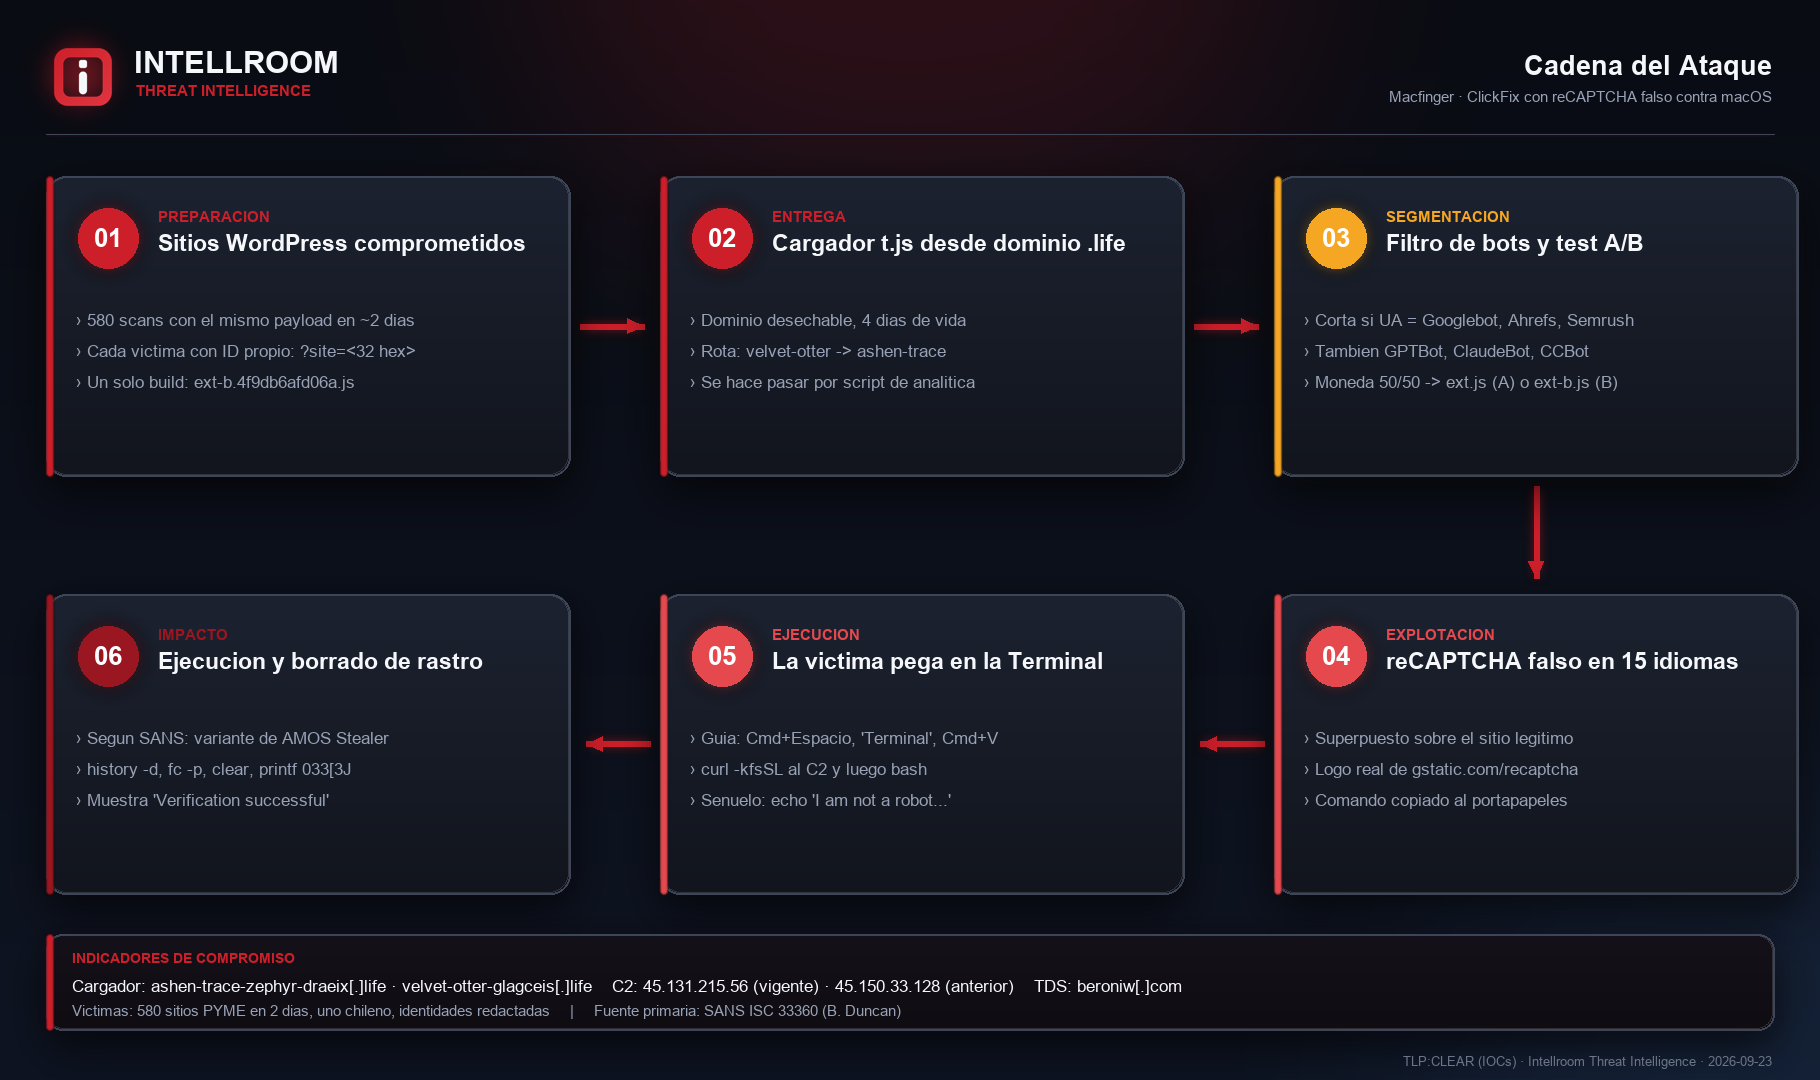
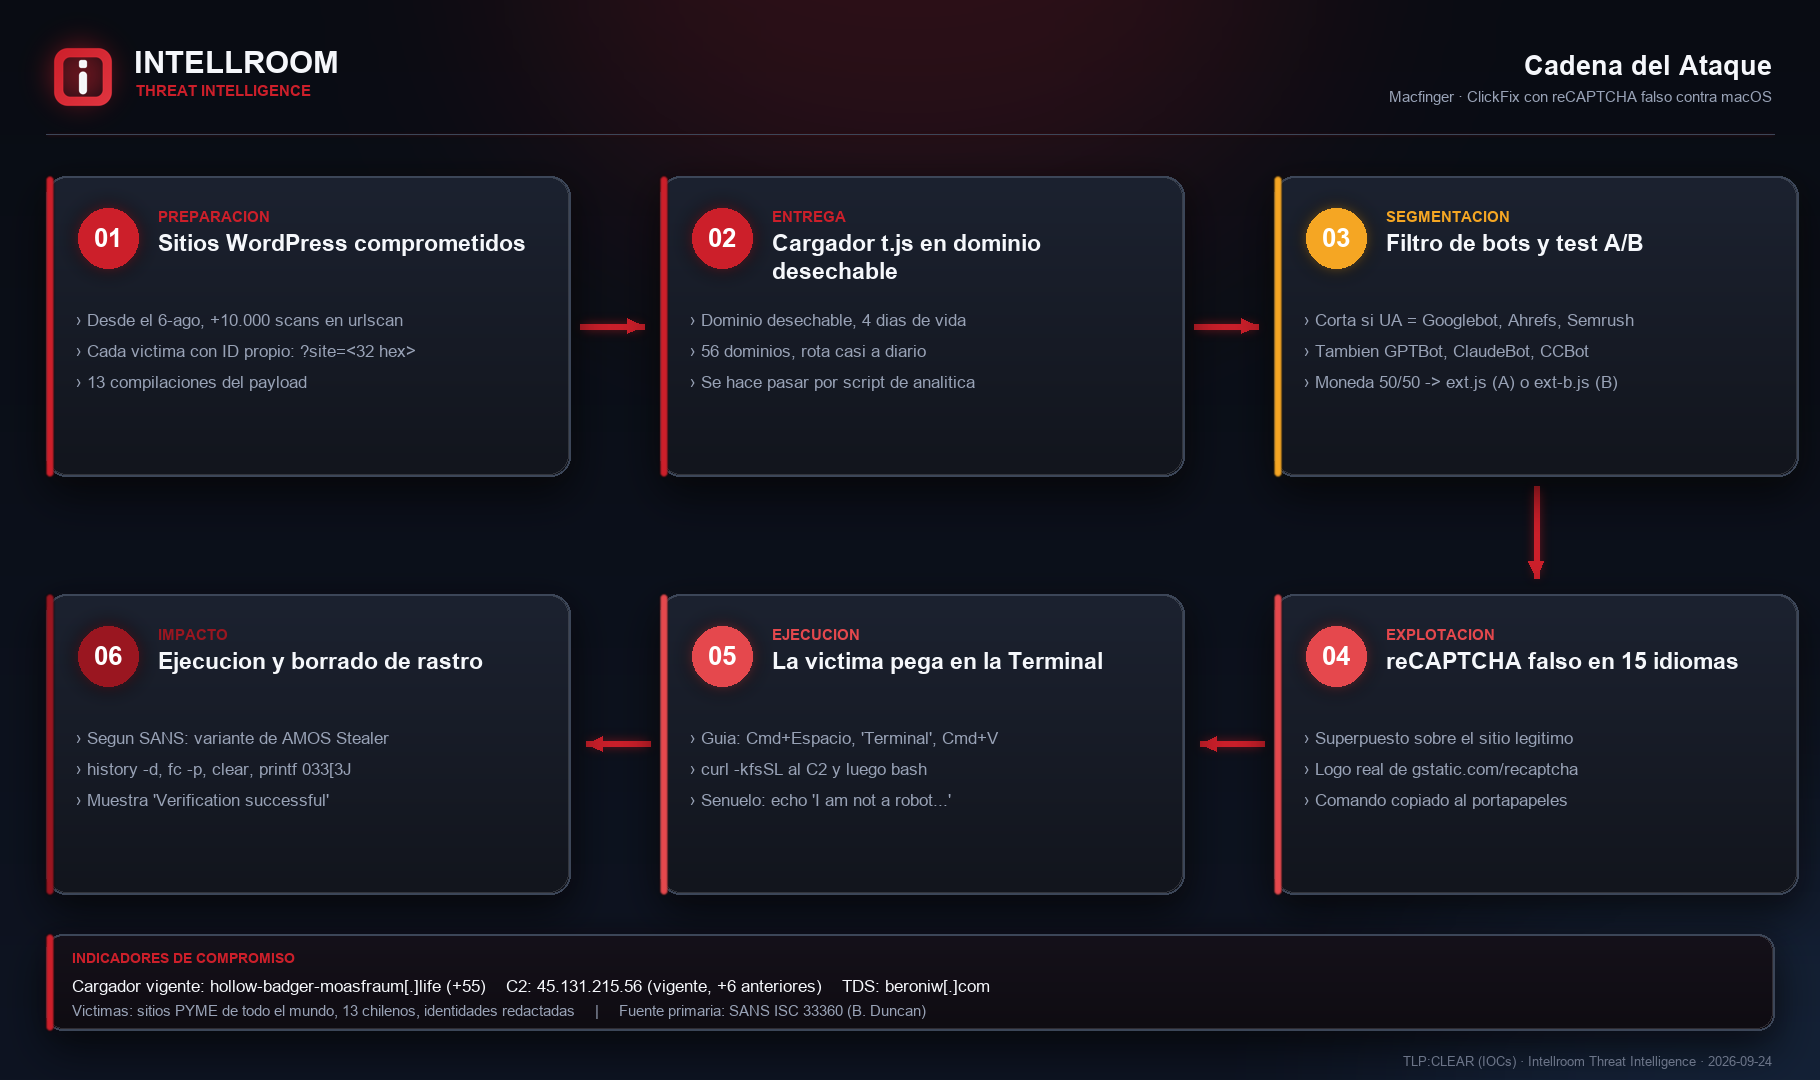
Macfinger_ClickFix_macOS: histórico completo de la campaña al 24-09
Con la telemetría del kit (t.4b1009ff6c3f.js) como pivote, la campaña
opera al menos desde el 6-ago: 13 compilaciones, 7 servidores de
descarga y 56 dominios de cargador. Cada compilación se bajó de urlscan
sin tocar la infraestructura del atacante y se aceptó solo si su SHA-256
empieza con los 12 hex del nombre.

Corrige la ficha: la infraestructura cabe en dos proveedores (Aeza,
AS210644 y AS216246; NetCrafters, AS203273), no en dos ASN. La variante
A ya está analizada: usa el mismo C2 que la B en cada fase.

iocs.txt pasa a 92 indicadores, en el mismo orden. Las víctimas siguen
sin nombrarse.

diff --git a/Campaign/Macfinger_ClickFix_macOS/README.md b/Campaign/Macfinger_ClickFix_macOS/README.md
@@ -1,19 +1,19 @@
 # Macfinger: ClickFix con reCAPTCHA falso contra macOS
 
 **Técnica:** ClickFix, MITRE ATT&CK T1204.004 · **Objetivo:** usuarios de macOS · **Payload final:** variante de Atomic macOS Stealer (AMOS), según SANS · **TLP:CLEAR**
-**Fuente primaria:** [SANS ISC, diario 33360](https://isc.sans.edu/diary/Macfinger+ClickFix+campaign/33360) (Brad Duncan, 22-09-2026) · **Contrastado y ampliado por Intellroom:** 23-09-2026
+**Fuente primaria:** [SANS ISC, diario 33360](https://isc.sans.edu/diary/Macfinger+ClickFix+campaign/33360) (Brad Duncan, 22-09-2026) · **Contrastado y ampliado por Intellroom:** 23-09-2026 · **actualizado:** 24-09-2026
 
 Una campaña masiva inyecta un cargador JavaScript en sitios WordPress de PYMEs de todo el mundo. El cargador muestra un **reCAPTCHA falso** sobre el sitio legítimo y convence al visitante de abrir la Terminal de macOS y pegar un comando que el propio kit copió al portapapeles. El comando descarga y ejecuta un script, **borra el historial y limpia la pantalla**, y termina mostrando en verde *"Verification successful"*.
 
-Brad Duncan la nombró **Macfinger** en SANS ISC. Intellroom llegó a ella de forma independiente, pivoteando desde un **sitio chileno comprometido** (hay al menos seis), y la vinculó a la de SANS con un dato verificable: la URL del servidor de descarga dentro de la compilación vieja del payload es **idéntica** a una de las que publicó SANS.
+Brad Duncan la nombró **Macfinger** en SANS ISC. Intellroom llegó a ella de forma independiente, pivoteando desde un **sitio chileno comprometido** (hay 13 `.cl` con indicadores de la campaña), y la vinculó a la de SANS con un dato verificable: la URL del servidor de descarga dentro de la compilación vieja del payload es **idéntica** a una de las que publicó SANS.
 
 ## Lo que esta ficha agrega a lo ya publicado
 
-- **El cargador rotó dos veces.** `velvet-otter-glagceis[.]life`, el único dominio que publicó SANS, fue reemplazado por **`ashen-trace-zephyr-draeix[.]life`** y horas después por **`misty-whirl-beacon-doa[.]life`**, que no aparecía en ningún reporte y **cayó en el ASN que esta ficha anticipa**. El identificador de la víctima no cambió.
-- **Un servidor de descarga nuevo:** **`45[.]131[.]215[.]56`**, en la compilación vigente del payload.
-- **Toda la infraestructura cabe en dos ASN**, la de SANS y la propia: **AS210644 Aeza Group**, sancionado por OFAC el 1-7-2025, y **AS203273 NetCrafters OU**. Entre una compilación y otra el servidor de descarga **migró de Aeza a NetCrafters**.
-- **El nombre del archivo es un pivote exacto:** los 12 hexadecimales de `ext-b.4f9db6afd06a.js` son el **prefijo de su SHA-256**, verificado en las dos compilaciones. El propio servidor lo confirma con un 404: *"Extended script B version mismatch"*.
-- **Test A/B:** `ext-b` significa *Extended script B*. El kit tira una moneda 50/50 entre dos payloads y mide la conversión.
+- **La campaña empezó al menos el 6 de agosto,** no en septiembre: 13 compilaciones del payload, **7 servidores de descarga** (uno por fase) y **56 dominios de cargador** en nueve terminaciones (`.life`, `.live`, `.xyz`, `.com`, `.icu`, `.space`, `.site`, `.lol`, `.digital`). SANS publicó un dominio y un servidor.
+- **El cargador rota casi a diario.** El 24-09 pasó a **`hollow-badger-moasfraum[.]life`** y conviven otros dos nuevos. El identificador de cada víctima no cambia entre rotaciones.
+- **Toda la infraestructura cabe en dos proveedores:** **Aeza Group** (AS210644 y AS216246), sancionado por OFAC el 1-7-2025, y **NetCrafters OU** (AS203273). Los 7 servidores de descarga y los 51 cargadores que aún resuelven caen ahí, sin excepción. El pivote que dura es el proveedor.
+- **El nombre del archivo es un pivote exacto:** los 12 hexadecimales de `ext-b.4f9db6afd06a.js` son el **prefijo de su SHA-256**, verificado en las **13 compilaciones**. El propio servidor lo confirma con un 404: *"Extended script B version mismatch"*.
+- **Test A/B:** `ext-b` significa *Extended script B*. El kit tira una moneda 50/50 entre dos payloads y mide la conversión. En cada fase, **las dos variantes usan el mismo servidor de descarga**.
 - **Evade rastreadores de IA y de SEO,** no solo a Google: GPTBot, ClaudeBot, CCBot, AhrefsBot, SemrushBot. Buscarlo en Google no devuelve nada, y eso **no** prueba que un sitio esté limpio.
 - **Un segundo inyector** independiente, con redirector propio (`beroniw[.]com`) que hace *cloaking*.
 - **urlscan.io puntúa estos scans con score 0 y `malicious: false`.** Un triage que filtre por el veredicto automático deja pasar la campaña entera.
@@ -23,12 +23,12 @@ Brad Duncan la nombró **Macfinger** en SANS ISC. Intellroom llegó a ella de fo
 | Tipo | Valor | Acción |
 |---|---|---|
 | IP (C2 vigente) | `45[.]131[.]215[.]56` · AS203273 | Bloquear, **revisar a los 60 días** |
-| IP (C2 anterior) | `45[.]150[.]33[.]128` · AS210644 Aeza | Bloquear, **revisar a los 60 días** |
+| IP (6 C2 anteriores) | Ver `iocs.txt`, todas en Aeza o NetCrafters | Bloquear, **revisar a los 60 días** |
 | IP | `95[.]163[.]153[.]80:8133` · AS210644 | Bloquear (solo SANS, no verificado aquí) |
-| Dominio | `misty-whirl-beacon-doa[.]life` · `ashen-trace-zephyr-draeix[.]life` · `velvet-otter-glagceis[.]life` · `skaedbraearaquiet[.]life` | Bloquear |
+| Dominio | `hollow-badger-moasfraum[.]life` (vigente) y otros 55 cargadores, ver `iocs.txt` | Bloquear |
 | Dominio | `beroniw[.]com` | Bloquear el dominio, **nunca** el rango de Cloudflare |
 | Sitios que cargan el script | PYMEs comprometidas | **No bloquear:** son víctimas. Se avisa |
-| ASN completos | AS203273, AS210644, Cloudflare | **No bloquear** el ASN, solo las IPs nombradas |
+| ASN completos | AS203273, AS210644, AS216246, Cloudflare | **No bloquear** el ASN, solo las IPs nombradas |
 
 ## Evidencia
 
@@ -40,7 +40,8 @@ Brad Duncan la nombró **Macfinger** en SANS ISC. Intellroom llegó a ella de fo
 
 - **[`Macfinger_ClickFix_macOS_23092026.txt`](Macfinger_ClickFix_macOS_23092026.txt)**: ficha completa. Qué agrega a SANS, cadena de ataque, comando reconstruido, infraestructura y migración, MITRE ATT&CK, qué **no** es un IOC, cómo enumerar víctimas y todo lo que no se pudo verificar.
 - **[`iocs.txt`](iocs.txt)**: solo indicadores, con acción por línea, defanged. Distingue lo verificado por Intellroom de lo que solo publicó SANS.
-- **[`evidencia_comparacion_compilaciones.txt`](evidencia_comparacion_compilaciones.txt)**: las dos compilaciones lado a lado y la migración del C2.
+- **[`evidencia_historico_24092026.txt`](evidencia_historico_24092026.txt)**: el histórico completo. Las 13 compilaciones con su SHA-256 y su C2, los 56 cargadores con proveedor y fecha, y el volumen diario de scans.
+- **[`evidencia_comparacion_compilaciones.txt`](evidencia_comparacion_compilaciones.txt)**: las dos primeras compilaciones lado a lado y la migración del C2.
 - **[`evidencia_comando_reconstruido.txt`](evidencia_comando_reconstruido.txt)**: el comando que se le hace pegar a la víctima y el método para desofuscarlo sin ejecutar el payload.
 - **[`evidencia_404_version_mismatch.txt`](evidencia_404_version_mismatch.txt)**: por qué el nombre del archivo es el SHA-256.
 - **[`evidencia_urlscan_busqueda.txt`](evidencia_urlscan_busqueda.txt)**: la consulta de enumeración y el perfil de las víctimas, sin identificarlas.
@@ -51,7 +52,6 @@ Brad Duncan la nombró **Macfinger** en SANS ISC. Intellroom llegó a ella de fo
 
 - **El payload final.** No se descargó nada desde los servidores de descarga. La identificación como AMOS es de SANS.
 - **Las huellas SHA-256 de archivos que publicó SANS.** Se reproducen con esa atribución, sin contrastar.
-- **La variante A del test** (`ext.<hash>.js`). Solo se analizó la variante B.
 - **Los payloads no se publican en este repositorio,** solo sus huellas.
 - **Las víctimas.** Ningún sitio comprometido se nombra, y el identificador de víctima del cargador se redactó.
 
